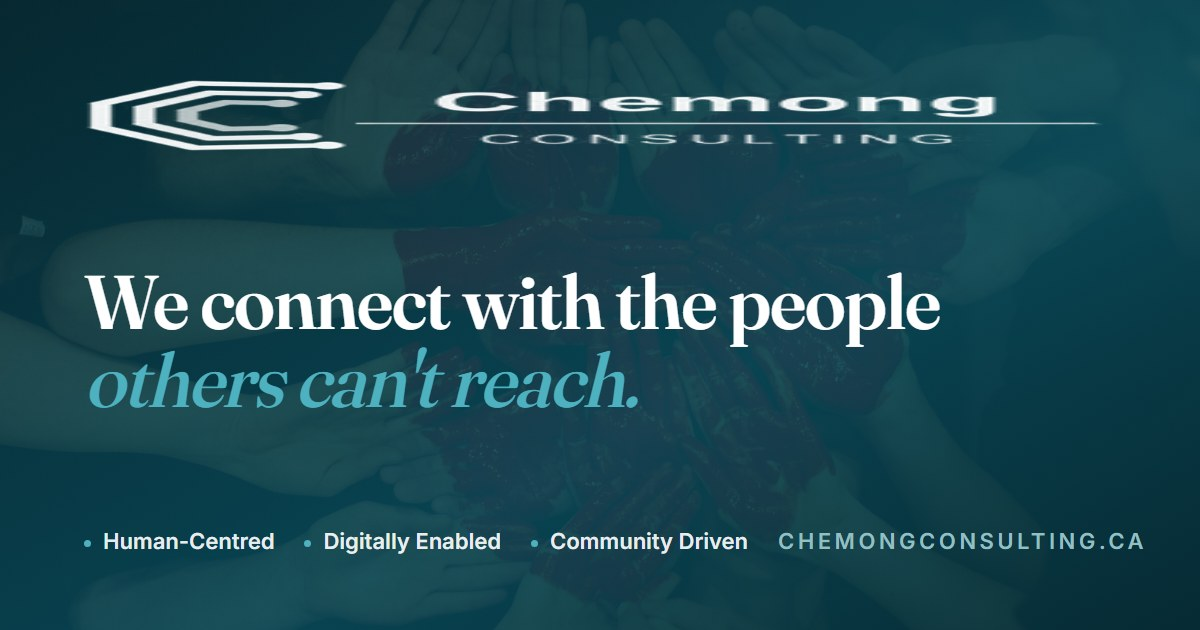
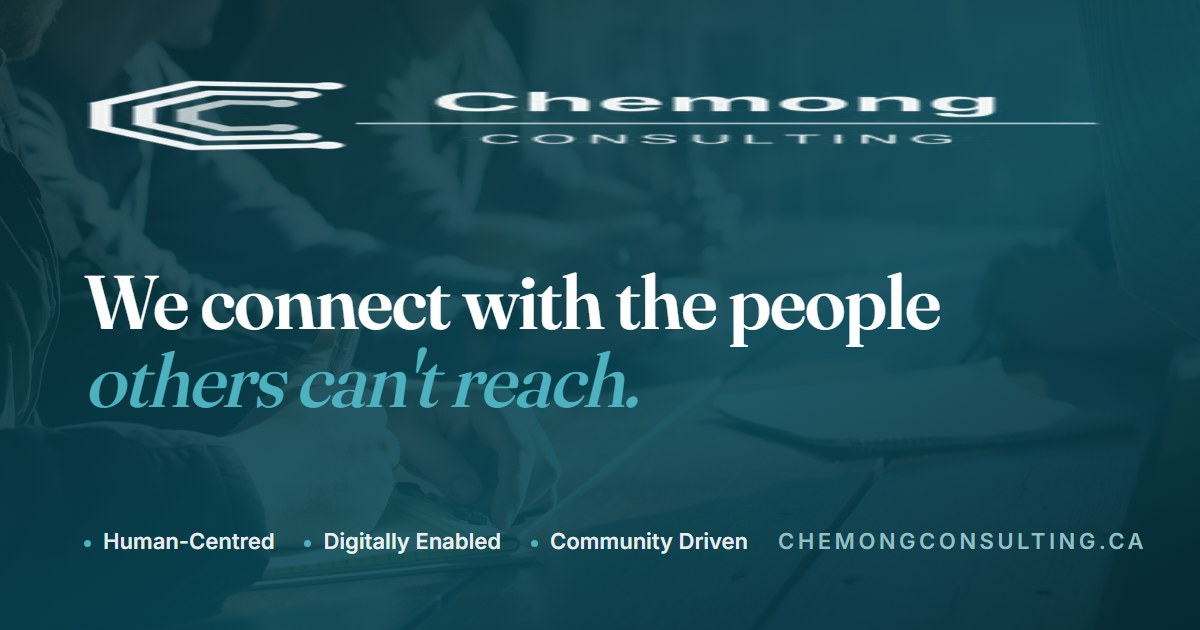
Update hero photo, contact email, and footer phone
- Swap hero + OG share image to a professional consulting/advisory scene
- Route contact form submissions to [email redacted]
- Add phone [phone redacted] to footer

diff --git a/index.html b/index.html
@@ -860,6 +860,7 @@
           Start a conversation
         </button>
         <ul>
+          <li><a href="tel:[phone redacted]">[phone redacted]</a></li>
           <li><span>Ontario, Canada</span></li>
         </ul>
       </div>
@@ -939,7 +940,7 @@
       `Email: ${email}\n` +
       `Interested in: ${type}\n\n` +
       `${msg || ''}`;
-    window.location.href = `mailto:[email redacted]?subject=${encodeURIComponent(subject)}&body=${encodeURIComponent(body)}`;
+    window.location.href = `mailto:[email redacted]?subject=${encodeURIComponent(subject)}&body=${encodeURIComponent(body)}`;
   });
 
   // Year